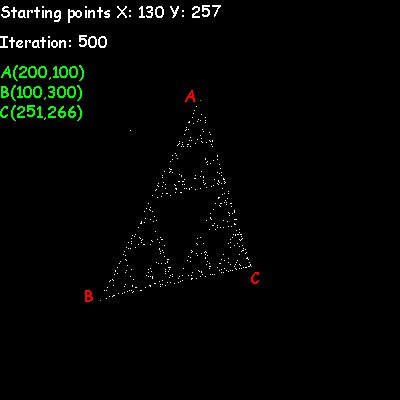
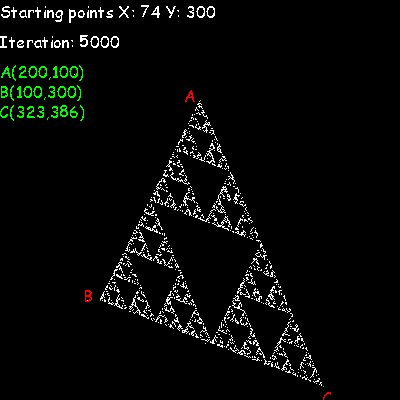
.

diff --git a/chaosgame.py b/chaosgame.py
@@ -67,7 +67,7 @@ i=0
 iteration = font.render("Iteration: " + str(i), False, white)
 display.blit(iteration,(0,30))
 
-iter=500
+iter=5000
 
 while i <= iter:
     if i == iter:
